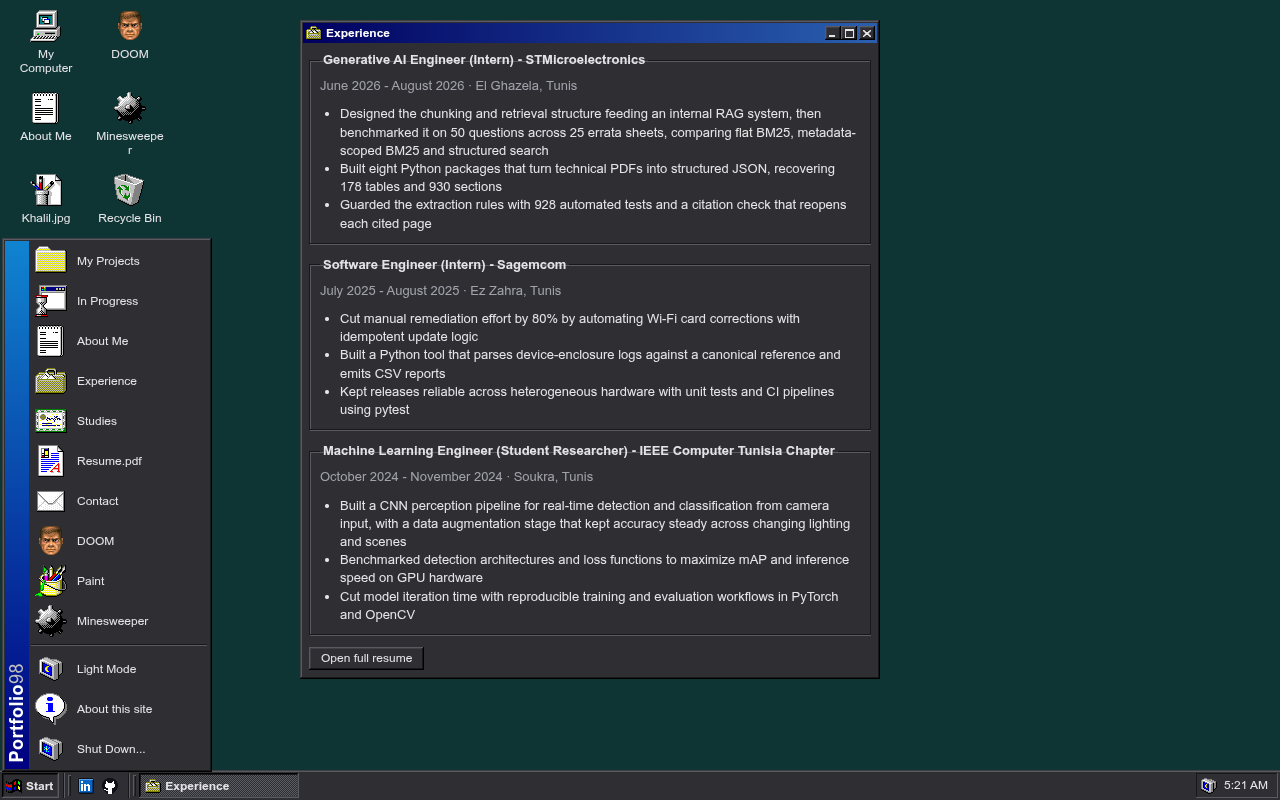
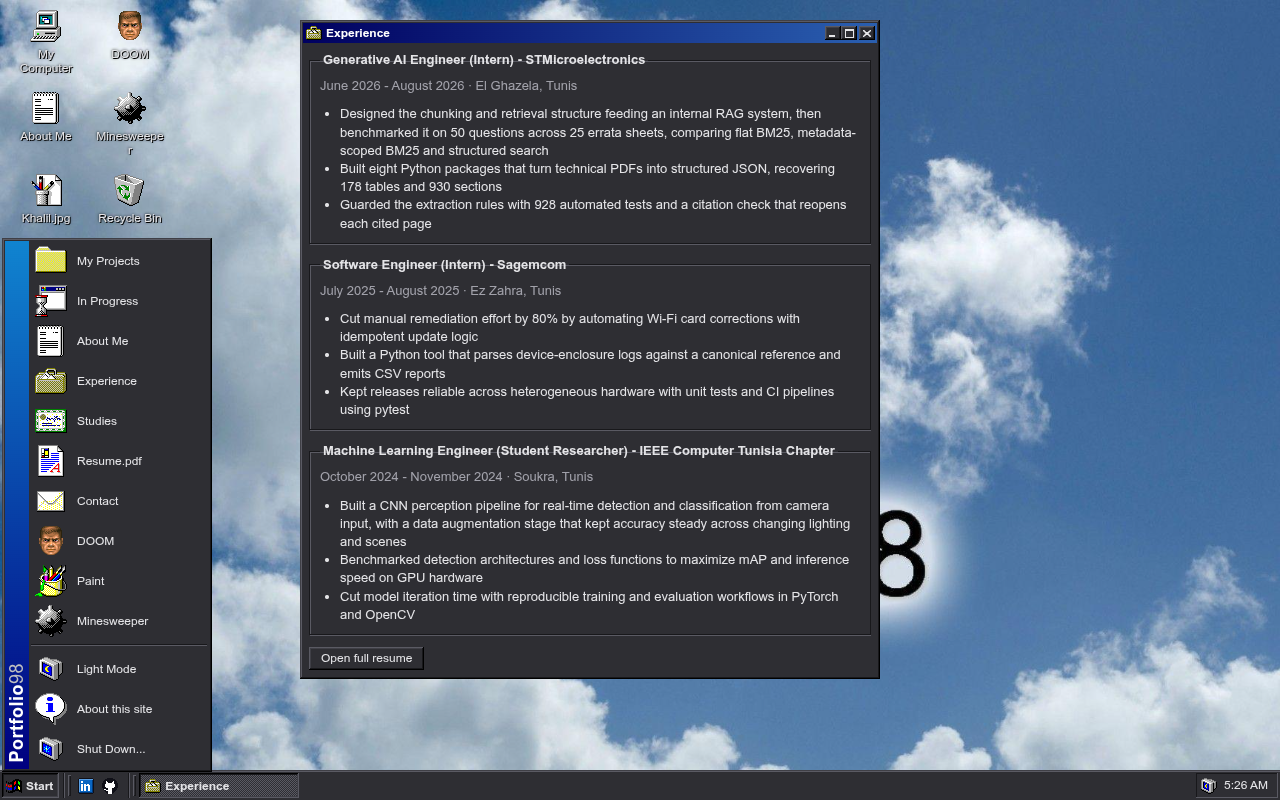
Add Windows 98 clouds wallpaper

diff --git a/index.html b/index.html
@@ -8,7 +8,7 @@
   <link rel="icon" href="icons/windows-16.png" type="image/png">
   <!-- ?v= makes browsers fetch fresh copies: change it whenever any of the .css or .js files change,
        otherwise a visitor can get the new page with the old script for up to 10 minutes after a push -->
-  <link rel="stylesheet" href="style.css?v=2026-10-20a">
+  <link rel="stylesheet" href="style.css?v=2026-10-20b">
   <script>
     // Apply a saved theme before the page draws. Dark is the default (see data-theme above).
     try { const t = localStorage.getItem('theme'); if (t) document.documentElement.dataset.theme = t; } catch { /* storage blocked */ }
@@ -640,9 +640,9 @@
 <!-- Suggestions for the explorer address bars, filled in by script.js -->
 <datalist id="explorer-paths"></datalist>
 
-<script src="paint.js?v=2026-10-20a"></script>
-<script src="minesweeper.js?v=2026-10-20a"></script>
-<script src="reader.js?v=2026-10-20a"></script>
-<script src="script.js?v=2026-10-20a"></script>
+<script src="paint.js?v=2026-10-20b"></script>
+<script src="minesweeper.js?v=2026-10-20b"></script>
+<script src="reader.js?v=2026-10-20b"></script>
+<script src="script.js?v=2026-10-20b"></script>
 </body>
 </html>

diff --git a/style.css b/style.css
@@ -3,6 +3,7 @@
    :root holds the classic light theme, [data-theme="dark"] below overrides it. */
 :root {
   --desktop: #008080;
+  --wallpaper: url("images/wallpaper.jpg"); /* set to none for a plain desktop color */
   --desktop-text: #fff;
   --text: #000;
   --field: #fff;
@@ -74,7 +75,7 @@
 html, body { height: 100%; margin: 0; }
 
 body {
-  background: var(--desktop);
+  background: var(--desktop) var(--wallpaper) center / cover no-repeat;
   color: var(--text);
   font: 12px/1.4 var(--ui-font);
   overflow: hidden;
@@ -132,6 +133,8 @@ a:visited { color: var(--link-visited); }
 .icon:visited { color: var(--desktop-text); }
 .icon img { width: 32px; height: 32px; image-rendering: pixelated; }
 .icon span { padding: 1px 2px; line-height: 1.2; overflow-wrap: break-word; max-width: 100%; }
+.desktop-icons .icon span { text-shadow: 1px 1px 0 #000, 0 0 3px #000; } /* readable on a wallpaper */
+.desktop-icons .icon.selected span { text-shadow: none; }
 .icon:focus-visible { outline: none; }
 .icon:focus-visible span { outline: 1px dotted #ff0; }
 .icon.selected span { background: var(--navy); color: #fff; }

diff --git a/404.html b/404.html
@@ -5,7 +5,7 @@
   <meta name="viewport" content="width=device-width, initial-scale=1">
   <title>Page not found - Portfolio 98</title>
   <link rel="icon" href="/Portfolio_Win98/icons/windows-16.png" type="image/png">
-  <link rel="stylesheet" href="/Portfolio_Win98/style.css?v=2026-10-20a">
+  <link rel="stylesheet" href="/Portfolio_Win98/style.css?v=2026-10-20b">
   <script>
     // Apply a saved theme before the page draws. Dark is the default (see data-theme above).
     try { const t = localStorage.getItem('theme'); if (t) document.documentElement.dataset.theme = t; } catch { /* storage blocked */ }
